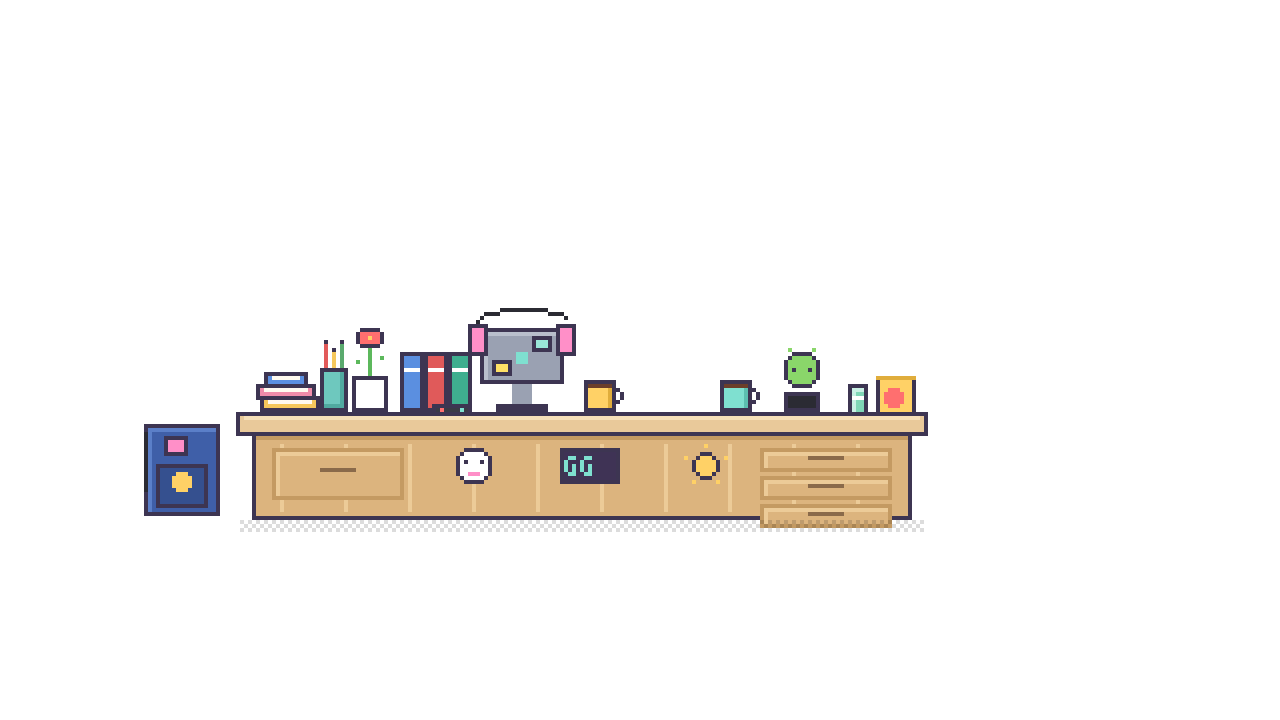
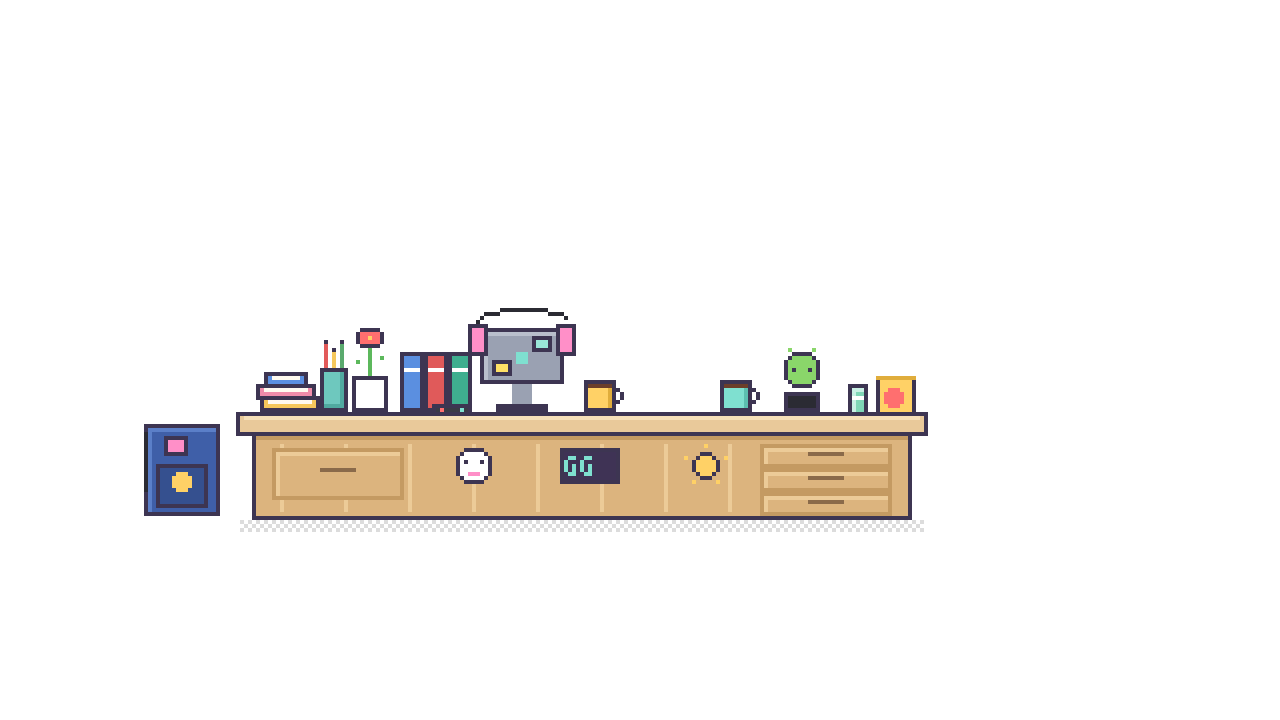
Rio's desk drawers sit inside the desk
Claude-Session: https://claude.ai/code/session_01HK9rM49NQkrfrGgA2eeo1G

Changed region(s): [[0.5938, 0.6111, 0.7188, 0.7333]]

diff --git a/tools/draw_meet.py b/tools/draw_meet.py
@@ -284,7 +284,7 @@ def moonpuff():
     d.rect(60, DESK_TOP - 1, 230, DESK_TOP + 3, TOP); d.hl(61, 229, DESK_TOP, TOPH); d.hl(60, 230, DESK_TOP - 1, OL); d.hl(60, 230, DESK_TOP + 4, OL); d.vl(59, DESK_TOP - 1, DESK_TOP + 4, OL); d.vl(231, DESK_TOP - 1, DESK_TOP + 4, OL)
     d.rect(64, DESK_TOP + 5, 226, 128, FR); d.vl(63, DESK_TOP + 5, 128, OL); d.vl(227, DESK_TOP + 5, 128, OL); d.hl(63, 227, 129, OL); d.hl(64, 226, DESK_TOP + 5, FRD)
     for x in range(70, 226, 16): d.vl(x, DESK_TOP + 7, 127, FRH)
-    for k in range(3): y0 = DESK_TOP + 8 + k * 7; d.box(190, y0, 222, y0 + 5, FR, FRD, FRH); d.hl(202, 210, y0 + 2, hx('8a6a4a'))
+    for k in range(3): y0 = DESK_TOP + 7 + k * 6; d.box(190, y0, 222, y0 + 5, FR, FRD, FRH); d.hl(202, 210, y0 + 2, hx('8a6a4a'))   # three drawers, inside the desk (it ends at 128)
     d.box(68, DESK_TOP + 8, 100, DESK_TOP + 20, FR, FRD, FRH); d.hl(80, 88, DESK_TOP + 13, hx('8a6a4a'))
     d.dither(60, 130, 230, 132, (0, 0, 0, 35))
     # on the desk (left to right): sketchbooks and a pencil cup, the flower pot, the binders, the monitor (its back to us), the figure
